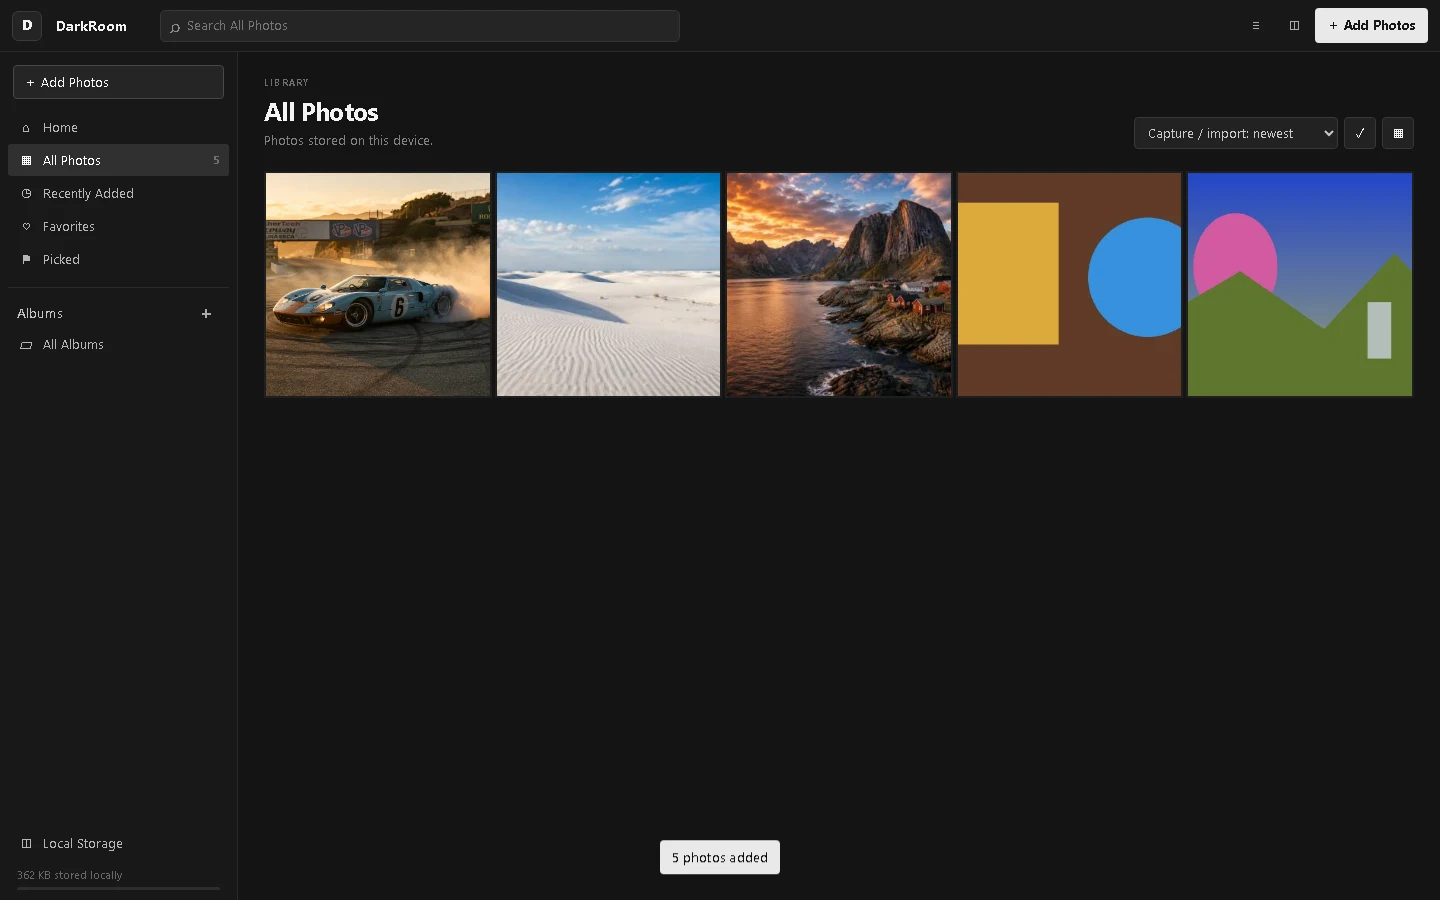
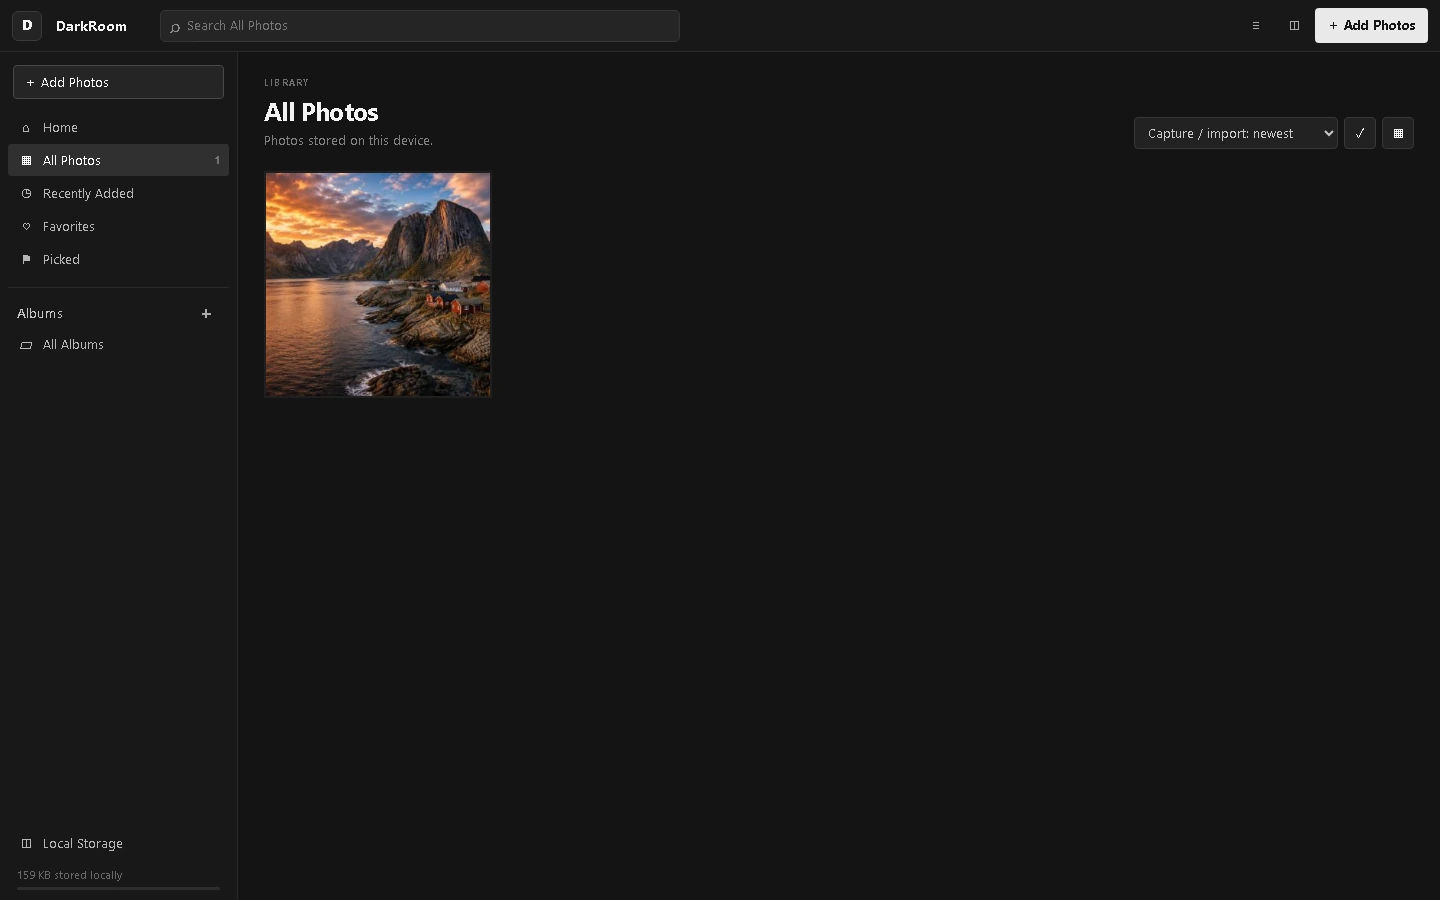
docs: refresh screenshots with supplied photos

Changed region(s): [[0.1875, 0.1867, 1.0, 0.4667], [0.4375, 0.9333, 0.5625, 0.9956]]

diff --git a/renderer.js b/renderer.js
@@ -16,7 +16,7 @@ async function applyImageLayers(source,layers=[]){const active=layers.filter(l=>
 function applyGlobalPixels(img,e){const d=img.data,E=DarkRoomEngine;for(let i=0;i<d.length;i+=4){const p=E.applyTonePixel(d[i],d[i+1],d[i+2],e);d[i]=p[0];d[i+1]=p[1];d[i+2]=p[2]}return img}
 function applyLensBlur(canvas,e){if(!(e.lensBlur>0))return canvas;const out=document.createElement('canvas');out.width=canvas.width;out.height=canvas.height;const ctx=out.getContext('2d',{alpha:false}),blur=document.createElement('canvas');blur.width=canvas.width;blur.height=canvas.height;const bx=blur.getContext('2d',{alpha:false});bx.filter=`blur(${Math.max(1,e.lensBlur/8)}px)`;bx.drawImage(canvas,0,0);ctx.drawImage(blur,0,0);if(e.bokehHighlights>0){const glow=document.createElement('canvas');glow.width=canvas.width;glow.height=canvas.height;const gx=glow.getContext('2d');gx.filter=`brightness(${135+e.bokehHighlights*.7}%) contrast(${110+e.bokehHighlights*.45}%) blur(${Math.max(1,e.lensBlur/12)}px)`;gx.globalAlpha=Math.min(.38,e.bokehHighlights/180);gx.drawImage(canvas,0,0);gx.globalCompositeOperation='screen';ctx.globalAlpha=.5;ctx.drawImage(glow,0,0);ctx.globalAlpha=1}const mask=document.createElement('canvas');mask.width=canvas.width;mask.height=canvas.height;const mx=mask.getContext('2d'),focus=(e.focusDepth||50)/100,range=Math.max(.03,(e.focusRange||35)/100),depth=currentPhoto?.depthRaster;if(depth?.data){const img=mx.createImageData(mask.width,mask.height);for(let y=0;y<mask.height;y++)for(let x=0;x<mask.width;x++){const dx=Math.min(depth.w-1,Math.round(x/Math.max(1,mask.width-1)*(depth.w-1))),dy=Math.min(depth.h-1,Math.round(y/Math.max(1,mask.height-1)*(depth.h-1))),d=(depth.data[dy*depth.w+dx]||0)/255,v=DarkRoomEngine.clamp(1-Math.abs(d-focus)/range),i=(y*mask.width+x)*4;img.data[i]=img.data[i+1]=img.data[i+2]=255;img.data[i+3]=Math.round(v*255)}mx.putImageData(img,0,0)}else{const cy=canvas.height*focus,band=Math.max(15,canvas.height*range*.55),g=mx.createLinearGradient(0,cy-band,0,cy+band);g.addColorStop(0,'rgba(0,0,0,0)');g.addColorStop(.35,'rgba(0,0,0,1)');g.addColorStop(.65,'rgba(0,0,0,1)');g.addColorStop(1,'rgba(0,0,0,0)');mx.fillStyle=g;mx.fillRect(0,0,mask.width,mask.height)}const sharp=document.createElement('canvas');sharp.width=canvas.width;sharp.height=canvas.height;const sx=sharp.getContext('2d');sx.drawImage(canvas,0,0);sx.globalCompositeOperation='destination-in';sx.drawImage(mask,0,0);ctx.drawImage(sharp,0,0);return out}
 function applyCanvasEffects(canvas,e){const ctx=canvas.getContext('2d',{alpha:false}),w=canvas.width,h=canvas.height;if(e.bloom>0||e.halation>0){const glow=document.createElement('canvas');glow.width=w;glow.height=h;const gx=glow.getContext('2d');gx.filter=`blur(${2+Math.max(e.bloom,e.halation)/10}px) brightness(${110+e.bloom/2}%)`;gx.globalAlpha=Math.min(.35,(e.bloom+e.halation)/300);gx.drawImage(canvas,0,0);gx.globalCompositeOperation='screen';ctx.globalAlpha=.55;ctx.drawImage(glow,0,0);ctx.globalAlpha=1}if(e.vignette){const s=Math.abs(e.vignette)/100*.75,g=ctx.createRadialGradient(w/2,h/2,Math.min(w,h)*.22,w/2,h/2,Math.max(w,h)*.72);g.addColorStop(0,'rgba(0,0,0,0)');g.addColorStop(1,e.vignette<0?`rgba(0,0,0,${s})`:`rgba(255,255,255,${s*.45})`);ctx.fillStyle=g;ctx.fillRect(0,0,w,h)}if(e.grain>0){const count=Math.min(120000,Math.round(w*h*e.grain/100*.018));ctx.globalAlpha=Math.min(.15,e.grain/600);for(let i=0;i<count;i++){const v=Math.random()*255|0;ctx.fillStyle=`rgb(${v},${v},${v})`;ctx.fillRect(Math.random()*w,Math.random()*h,1,1)}ctx.globalAlpha=1}return canvas}
-async function renderCanvasNow(canvas,maxSize=1400,forceOriginal=false){if(!currentPhoto)return;const token=canvas.id==='editorCanvas'?++renderToken:null,E=DarkRoomEngine,e=forceOriginal?defaultEdits():currentPhoto.edits,sourceBlob=!forceOriginal&&e.useAISource&&currentPhoto.aiSourceBlob?currentPhoto.aiSourceBlob:currentPhoto.blob,bmp=await decodePhotoImage(sourceBlob);let temp=transformedSourceCanvas(bmp,e,maxSize);releaseImage(bmp);temp=cropCanvas(temp,e,maxSize);if(!forceOriginal&&e.expand)temp=expandCanvas(temp,e.expand);if(!forceOriginal&&currentPhoto.skyReplacementId)temp=await applySkyReplacement(temp,e);let ctx=temp.getContext('2d',{alpha:false}),img=ctx.getImageData(0,0,temp.width,temp.height);if(!forceOriginal){img=applyGlobalPixels(img,e);let pixels=new Uint8ClampedArray(img.data);if(currentPhoto.lut)pixels=E.applyLUT(pixels,currentPhoto.lut,(e.lutIntensity??100)/100);pixels=E.applyAdjustmentLayers(pixels,temp.width,temp.height,currentPhoto.adjustmentLayers||[]);pixels=E.portraitProcess(pixels,temp.width,temp.height,e);pixels=E.frequencyProcess(pixels,temp.width,temp.height,e.frequencySmooth||0,e.frequencyDetail||0);pixels=E.redEyeProcess(pixels,temp.width,temp.height,e.redEye||0);pixels=E.detailProcess(pixels,temp.width,temp.height,e.noise||0,e.sharpness||0,e);pixels=E.restoreProcess(pixels,temp.width,temp.height,e);pixels=E.relightProcess(pixels,temp.width,temp.height,e,currentPhoto.depthRaster);for(const op of currentPhoto.healOps||[])if(op.enabled!==false&&!op.aiApplied){if(op.method==='clone'||op.mode==='clone')pixels=E.clonePaint(pixels,temp.width,temp.height,op,op.sourceDx??-.12,op.sourceDy??-.12);else if(op.method==='generative'||op.mode==='generative')pixels=E.generativeFill(pixels,temp.width,temp.height,op,op.prompt||'');else pixels=E.inpaint(pixels,temp.width,temp.height,op)}pixels=E.applyLocalEdits(pixels,temp.width,temp.height,currentPhoto.localEdits||[]);img.data.set(pixels);ctx.putImageData(img,0,0);temp=await applyImageLayers(temp,currentPhoto.imageLayers||[]);temp=applyLensBlur(temp,e);applyCanvasEffects(temp,e)}const sr=!forceOriginal?Math.max(1,Math.min(4,+e.superResolution||1)):1,outW=Math.max(1,Math.round(temp.width*sr)),outH=Math.max(1,Math.round(temp.height*sr));if(token!==null&&token!==renderToken)return;canvas.width=outW;canvas.height=outH;const out=canvas.getContext('2d',{alpha:false});out.imageSmoothingEnabled=true;out.imageSmoothingQuality='high';out.drawImage(temp,0,0,outW,outH);if(canvas.id==='editorCanvas'){drawHistogram(canvas);renderMaskOverlay();renderDiagnosticOverlay();updateCompositionOverlay();if(beforeSplit)updateBeforeSplit()}}
+async function renderCanvasNow(canvas,maxSize=1400,forceOriginal=false){if(!currentPhoto)return;const token=canvas.id==='editorCanvas'?++renderToken:null,E=DarkRoomEngine,e=forceOriginal?defaultEdits():currentPhoto.edits,sourceBlob=!forceOriginal&&e.useAISource&&currentPhoto.aiSourceBlob?currentPhoto.aiSourceBlob:photoBlob(currentPhoto),bmp=await decodePhotoImage(sourceBlob);let temp=transformedSourceCanvas(bmp,e,maxSize);releaseImage(bmp);temp=cropCanvas(temp,e,maxSize);if(!forceOriginal&&e.expand)temp=expandCanvas(temp,e.expand);if(!forceOriginal&&currentPhoto.skyReplacementId)temp=await applySkyReplacement(temp,e);let ctx=temp.getContext('2d',{alpha:false}),img=ctx.getImageData(0,0,temp.width,temp.height);if(!forceOriginal){img=applyGlobalPixels(img,e);let pixels=new Uint8ClampedArray(img.data);if(currentPhoto.lut)pixels=E.applyLUT(pixels,currentPhoto.lut,(e.lutIntensity??100)/100);pixels=E.applyAdjustmentLayers(pixels,temp.width,temp.height,currentPhoto.adjustmentLayers||[]);pixels=E.portraitProcess(pixels,temp.width,temp.height,e);pixels=E.frequencyProcess(pixels,temp.width,temp.height,e.frequencySmooth||0,e.frequencyDetail||0);pixels=E.redEyeProcess(pixels,temp.width,temp.height,e.redEye||0);pixels=E.detailProcess(pixels,temp.width,temp.height,e.noise||0,e.sharpness||0,e);pixels=E.restoreProcess(pixels,temp.width,temp.height,e);pixels=E.relightProcess(pixels,temp.width,temp.height,e,currentPhoto.depthRaster);for(const op of currentPhoto.healOps||[])if(op.enabled!==false&&!op.aiApplied){if(op.method==='clone'||op.mode==='clone')pixels=E.clonePaint(pixels,temp.width,temp.height,op,op.sourceDx??-.12,op.sourceDy??-.12);else if(op.method==='generative'||op.mode==='generative')pixels=E.generativeFill(pixels,temp.width,temp.height,op,op.prompt||'');else pixels=E.inpaint(pixels,temp.width,temp.height,op)}pixels=E.applyLocalEdits(pixels,temp.width,temp.height,currentPhoto.localEdits||[]);img.data.set(pixels);ctx.putImageData(img,0,0);temp=await applyImageLayers(temp,currentPhoto.imageLayers||[]);temp=applyLensBlur(temp,e);applyCanvasEffects(temp,e)}const sr=!forceOriginal?Math.max(1,Math.min(4,+e.superResolution||1)):1,outW=Math.max(1,Math.round(temp.width*sr)),outH=Math.max(1,Math.round(temp.height*sr));if(token!==null&&token!==renderToken)return;canvas.width=outW;canvas.height=outH;const out=canvas.getContext('2d',{alpha:false});out.imageSmoothingEnabled=true;out.imageSmoothingQuality='high';out.drawImage(temp,0,0,outW,outH);if(canvas.id==='editorCanvas'){drawHistogram(canvas);renderMaskOverlay();renderDiagnosticOverlay();updateCompositionOverlay();if(beforeSplit)updateBeforeSplit()}}
 let editorRenderQueue=Promise.resolve(),editorRenderRequest=0;
 function renderCanvas(canvas,maxSize=1400,forceOriginal=false){
   if(canvas?.id!=='editorCanvas')return renderCanvasNow(canvas,maxSize,forceOriginal);

diff --git a/sw.js b/sw.js
@@ -1,4 +1,4 @@
-const CACHE='darkroom-v18';
+const CACHE='darkroom-v19';
 const ASSETS=['./','./index.html','./styles.css','./engine-core.js','./ai-runtime.js','./generative-runtime.js','./raw-runtime.js','./core.js','./library.js','./renderer.js','./editor.js','./pro-tools.js','./app.js','./manifest.webmanifest','./icon.svg','./docs/assets/examples/mountain-sunset.jpg','./docs/assets/examples/white-dunes.jpg','./docs/assets/examples/race-car.jpg'];
 self.addEventListener('install',e=>e.waitUntil(caches.open(CACHE).then(c=>Promise.all(ASSETS.map(a=>c.add(a).catch(()=>null)))).then(()=>self.skipWaiting())));
 self.addEventListener('activate',e=>e.waitUntil(Promise.all([caches.keys().then(keys=>Promise.all(keys.filter(k=>k!==CACHE).map(k=>caches.delete(k)))),self.clients.claim()])));

diff --git a/tests/capture_readme.py b/tests/capture_readme.py
@@ -1,0 +1,103 @@
+"""Capture README screenshots from the bundled real-photo examples.
+
+This intentionally imports one photo per page so documentation never falls back to
+the synthetic geometry used by the browser regression fixtures.
+"""
+from pathlib import Path
+from PIL import Image
+from playwright.sync_api import sync_playwright
+from browser_ux import ROOT, boot
+
+
+OUT = ROOT / "docs" / "assets"
+TMP = ROOT / "test-output" / "readme-captures"
+PHOTOS = ROOT / "docs" / "assets" / "examples"
+
+
+def wait_for_library(page):
+    page.wait_for_function("document.querySelectorAll('.photo-card').length===1", timeout=15000)
+    page.wait_for_function("document.querySelector('.photo-card img')?.naturalWidth>0", timeout=10000)
+    page.wait_for_timeout(1200)
+
+
+def page_with_photo(browser, filename, viewport):
+    context = browser.new_context(viewport=viewport, service_workers="block")
+    page = context.new_page()
+    boot(page)
+    page.set_input_files("#fileInput", str(PHOTOS / filename))
+    wait_for_library(page)
+    return context, page
+
+
+def save_capture(page, name):
+    png = TMP / f"{name}.png"
+    webp = OUT / f"{name}.webp"
+    page.wait_for_timeout(750)
+    page.evaluate("() => new Promise(resolve => requestAnimationFrame(() => requestAnimationFrame(resolve)))")
+    page.evaluate("() => document.querySelectorAll('canvas').forEach(canvas => canvas.toDataURL('image/png'))")
+    page.wait_for_timeout(150)
+    if name.startswith("editor"):
+        page.evaluate("""async()=>{
+          const canvas=document.querySelector('#editorCanvas');
+          const wrap=document.querySelector('#canvasWrap');
+          if(!canvas||!wrap)return;
+          const image=document.createElement('img');
+          image.className='readme-capture-image';
+          image.alt='';
+          image.src=canvas.toDataURL('image/png');
+          image.style.cssText='position:absolute;inset:0;width:100%;height:100%;object-fit:contain;pointer-events:none;z-index:20;background:#050505';
+          wrap.appendChild(image);
+          await image.decode();
+          canvas.dataset.readmeHidden='1';
+          canvas.style.visibility='hidden';
+        }""")
+    page.screenshot(path=str(png), full_page=True)
+    if name.startswith("editor"):
+        page.evaluate("""()=>{const image=document.querySelector('.readme-capture-image');if(image)image.remove();const canvas=document.querySelector('#editorCanvas');if(canvas?.dataset.readmeHidden){canvas.style.visibility='';delete canvas.dataset.readmeHidden}}""")
+    with Image.open(png) as image:
+        image.convert("RGB").save(webp, "WEBP", quality=92, method=6)
+
+
+def open_editor(page, mode="pro"):
+    page.locator(".photo-card").first.click()
+    page.wait_for_selector("#editor:not(.hidden)")
+    page.wait_for_function("document.querySelector('#editorCanvas').width>10 && !document.querySelector('#editorCanvas').hasAttribute('aria-busy')")
+    page.click(f'[data-mode="{mode}"]')
+    page.click('[data-tool-toggle="edit"]')
+    page.wait_for_function("""()=>{const c=document.querySelector('#editorCanvas');if(!c||c.width<10)return false;const d=c.getContext('2d').getImageData(0,0,c.width,c.height).data;let sum=0;for(let i=0;i<d.length;i+=Math.max(4,Math.floor(d.length/4000/4)*4))sum+=d[i]+d[i+1]+d[i+2];return sum/Math.max(1,d.length/Math.max(4,Math.floor(d.length/4000/4)*4))/3>5}""", timeout=15000)
+
+
+def main():
+    OUT.mkdir(parents=True, exist_ok=True)
+    TMP.mkdir(parents=True, exist_ok=True)
+    with sync_playwright() as playwright:
+        launch = {"headless": True, "args": ["--no-sandbox", "--disable-dev-shm-usage"]}
+        if Path("/usr/bin/chromium").exists():
+            launch["executable_path"] = "/usr/bin/chromium"
+        browser = playwright.chromium.launch(**launch)
+
+        context, page = page_with_photo(browser, "mountain-sunset.jpg", {"width": 1440, "height": 900})
+        save_capture(page, "library-desktop")
+        context.close()
+
+        context, page = page_with_photo(browser, "race-car.jpg", {"width": 1440, "height": 900})
+        open_editor(page, "pro")
+        save_capture(page, "editor-desktop")
+        context.close()
+
+        context, page = page_with_photo(browser, "white-dunes.jpg", {"width": 390, "height": 844})
+        open_editor(page, "advanced")
+        save_capture(page, "editor-mobile")
+        context.close()
+
+        context, page = page_with_photo(browser, "mountain-sunset.jpg", {"width": 1440, "height": 900})
+        page.click("#selectPhotosBtn")
+        page.locator(".photo-card").first.click()
+        page.wait_for_timeout(500)
+        save_capture(page, "compare-desktop")
+        context.close()
+        browser.close()
+
+
+if __name__ == "__main__":
+    main()

diff --git a/README.md b/README.md
@@ -23,27 +23,29 @@ There is **no account system and no cloud photo storage**. Imported originals, r
 
 ## Screenshots
 
-### Library
+Each screenshot below uses exactly one of the supplied sample photographs. The photos are also available inside the app through **Open sample set**; no synthetic or placeholder artwork is used in the examples.
 
-![DarkRoom library](docs/assets/library-desktop.webp)
+### Library — mountain sunset sample
+
+![DarkRoom library showing the supplied mountain sunset photo](docs/assets/library-desktop.webp)
 
 ### In-app sample set
 
 Open the library and choose **Open sample set** to load the bundled landscape and motorsport examples directly into DarkRoom. The originals stay in this browser's local library and are available for testing edits, masks, compare, and export without adding a README image gallery.
 
-### Pro editor — fixed right-side tools
+### Pro editor — race-car sample
 
-![DarkRoom desktop editor](docs/assets/editor-desktop.webp)
+![DarkRoom desktop editor showing the supplied race-car photo](docs/assets/editor-desktop.webp)
 
-### Mobile editor — photo left, tools right
+### Mobile editor — white-dunes sample
 
 <p align="center">
-  <img src="docs/assets/editor-mobile.webp" alt="DarkRoom mobile editor" width="390" />
+  <img src="docs/assets/editor-mobile.webp" alt="DarkRoom mobile editor showing the supplied white dunes photo" width="390" />
 </p>
 
-### Compare / culling workflow
+### Culling workflow — one real sample photo
 
-![DarkRoom compare view](docs/assets/compare-desktop.webp)
+![DarkRoom culling workflow with the supplied mountain sunset photo](docs/assets/compare-desktop.webp)
 
 ## Editing modes
 
